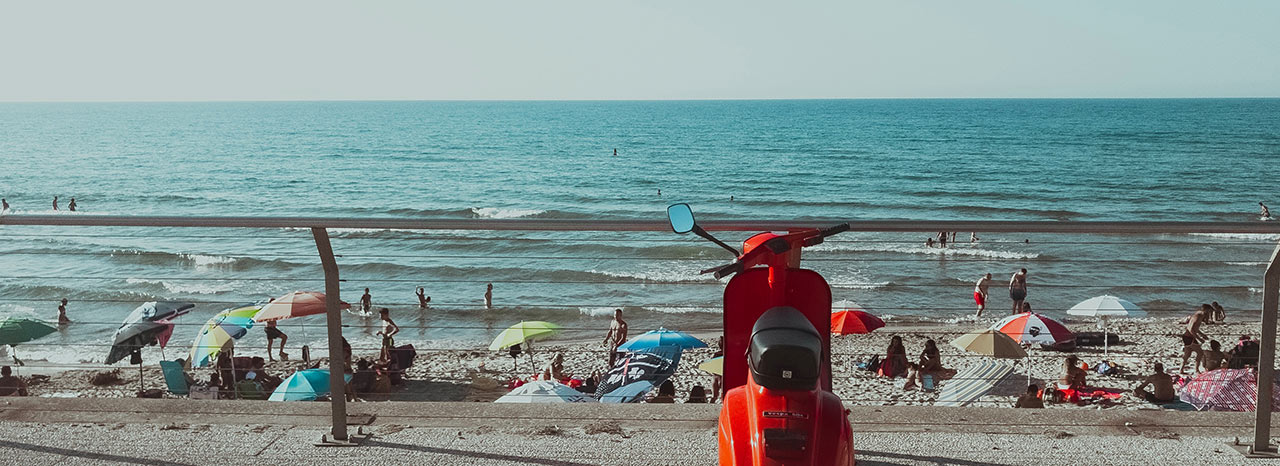
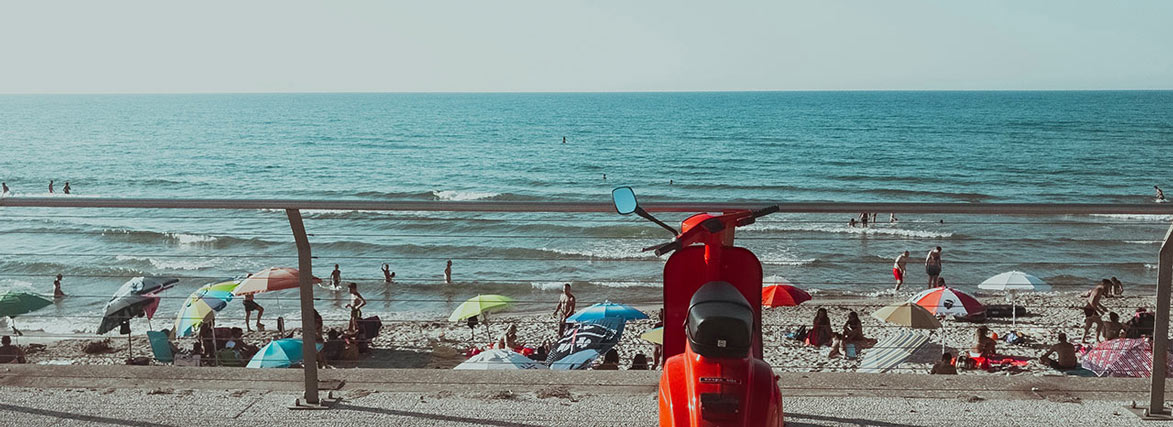
commit

diff --git a/finalproject/css/small.css b/finalproject/css/small.css
@@ -52,6 +52,7 @@ footer {
     color: white;
     text-align: center;
     padding: 1em;
+    max-width: 1500px;
 }
 
 footer p {
@@ -100,6 +101,7 @@ main{
 
 .container{
     margin-top: 8em;
+    max-width: 1500px;
 }
 
 nav picture{
@@ -109,8 +111,4 @@ nav picture{
 
 main h2{
   text-align: center;
-}
-
-header picture{
-  max-width: 100%;
 }
